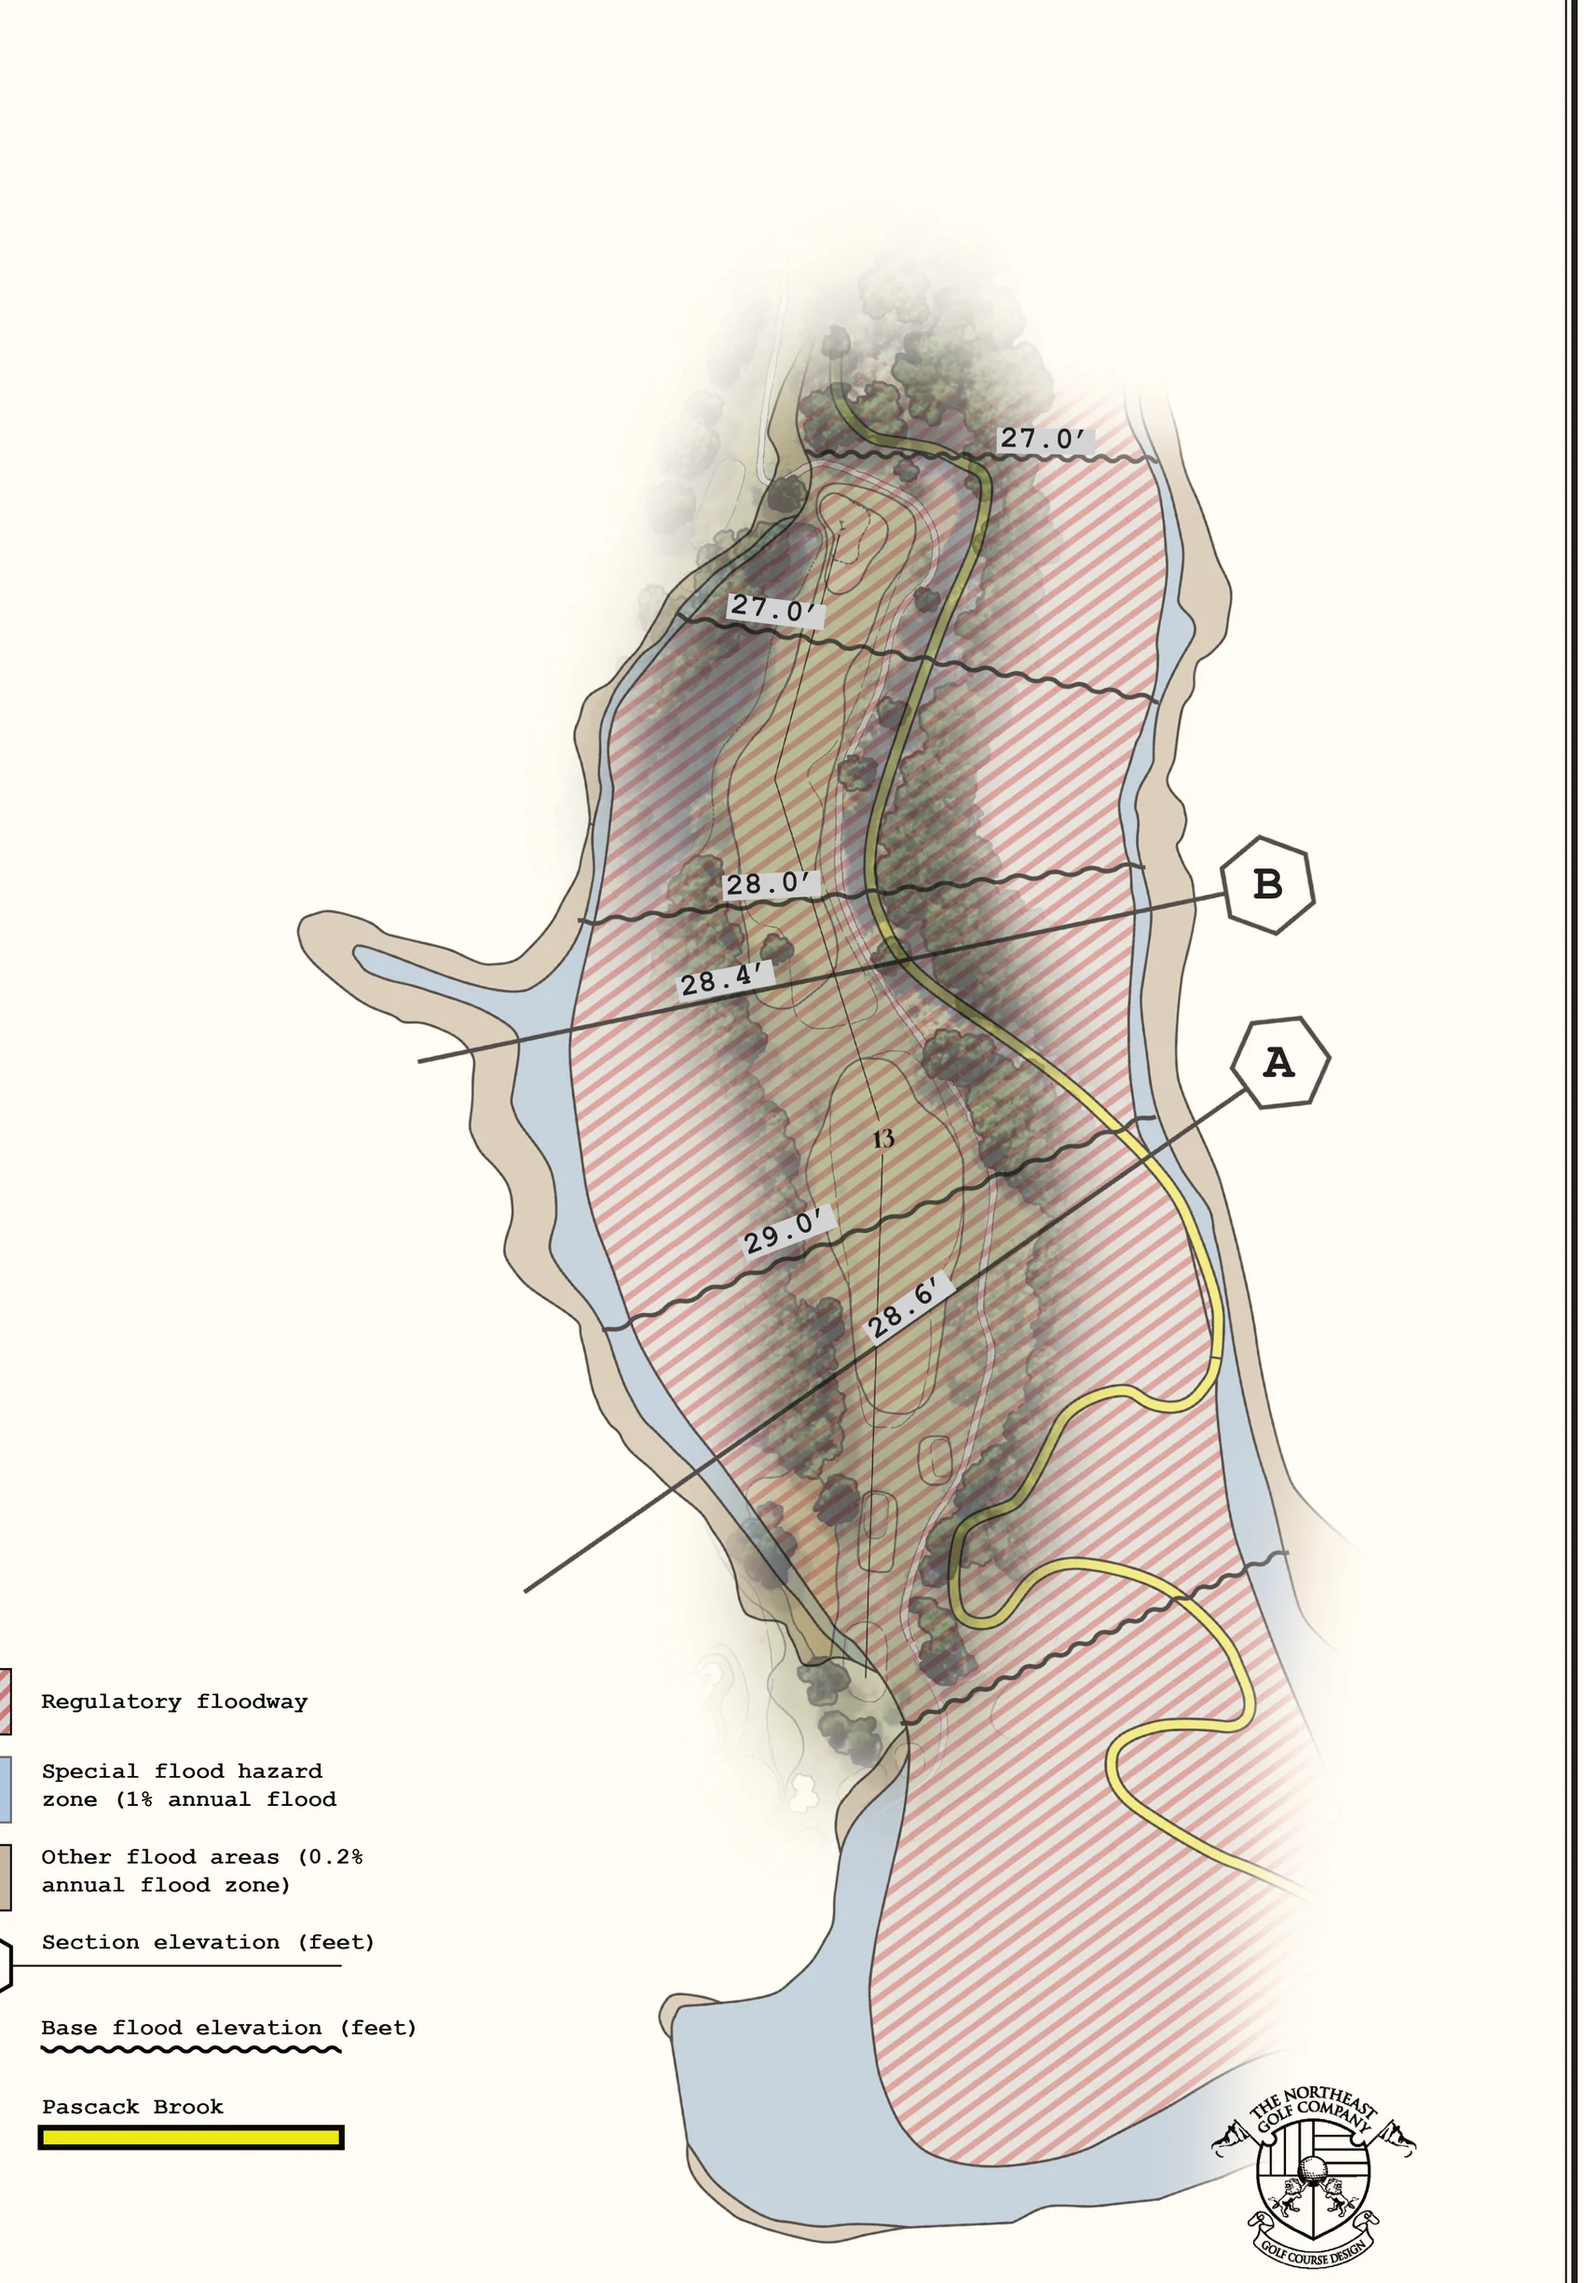
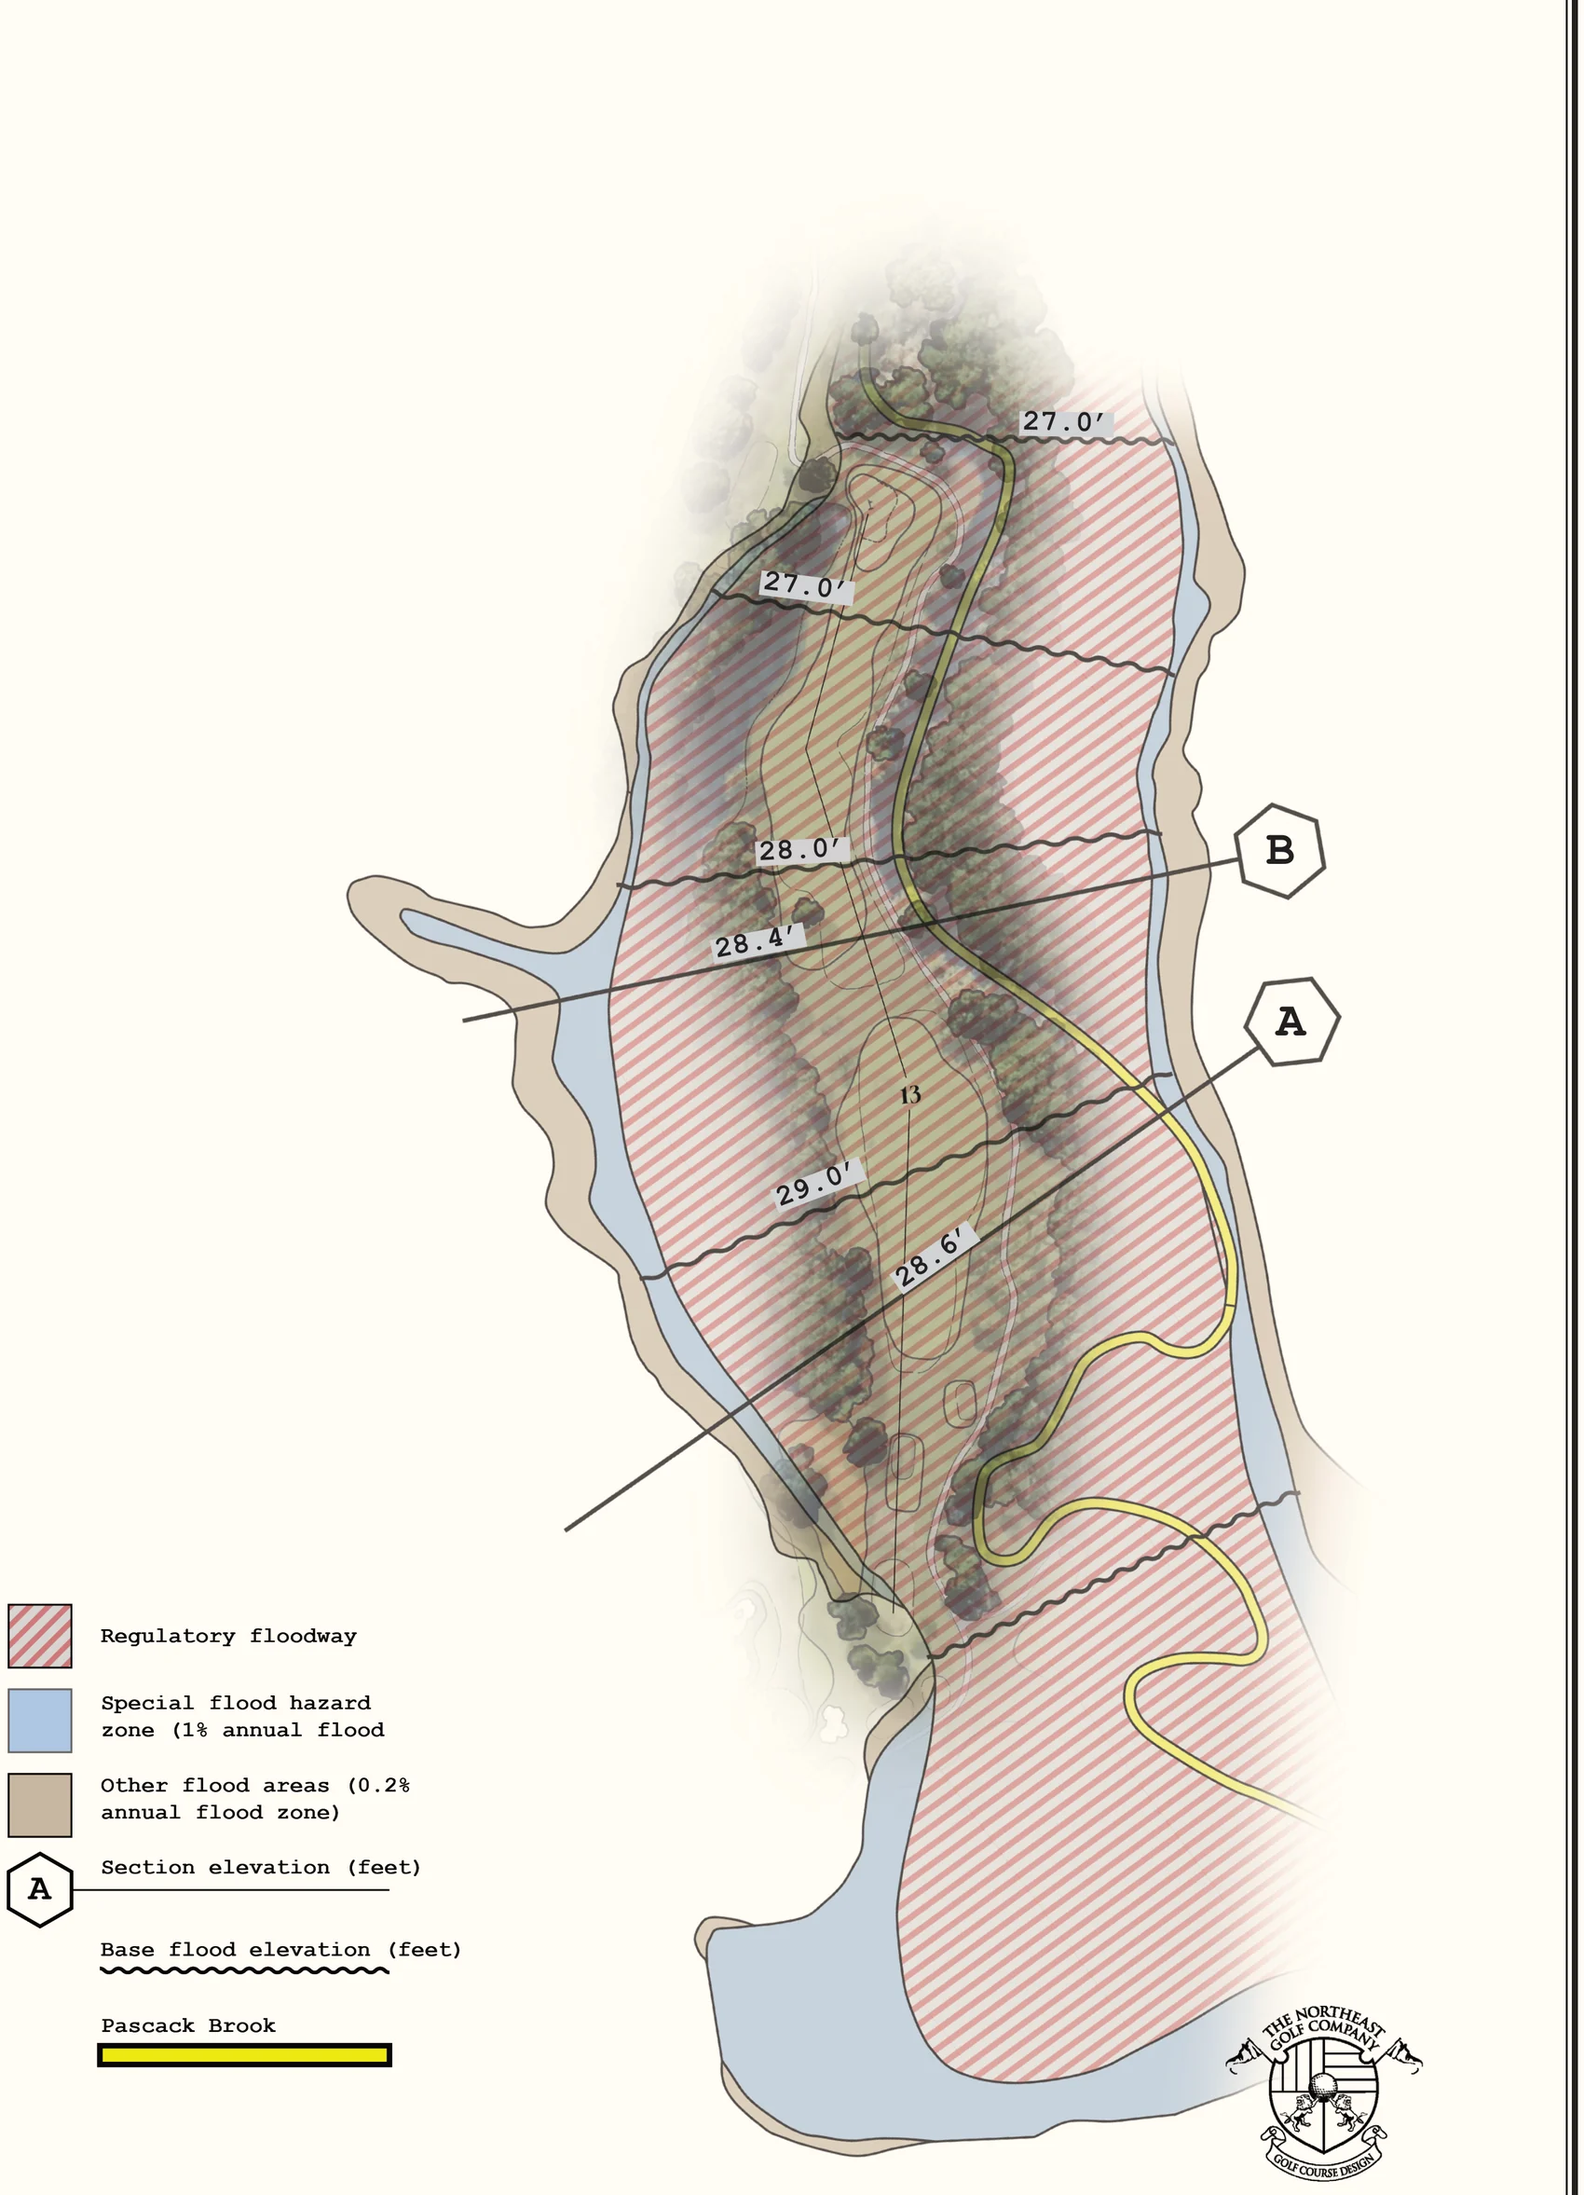
Valley Brook: landscape overall plan, no zoom on holes, mobile fixes
- Recrop overall plan to a tight landscape frame (label dropped, border/
  logo gone, north arrow + Course Yardage kept)
- Pan/zoom now only on the overall plan; holes are plain page-scrollable
  images (better mobile scrolling), zoom UI removed from hole views
- FEMA map crop widened so the full legend is visible
- Program Summary table restacks into cards on mobile

diff --git a/Projects/Valley_Brook/assets/js/main.js b/Projects/Valley_Brook/assets/js/main.js
@@ -164,6 +164,46 @@
     };
   }
 
+  /* ---- Flat (non-zoom) image view for holes / FEMA ---- */
+  function makeFlat(fig) {
+    var img = fig.querySelector("img");
+    var mkl = fig.querySelector(".mklayer");
+    var markerHover = null;
+    mkl.addEventListener("mouseover", function (e) {
+      var m = e.target.closest(".mk");
+      if (m && markerHover) markerHover(m.getAttribute("data-k"), true);
+    });
+    mkl.addEventListener("mouseout", function (e) {
+      var m = e.target.closest(".mk");
+      if (m && markerHover) markerHover(m.getAttribute("data-k"), false);
+    });
+    return {
+      setImage: function (src) {
+        img.style.opacity = 0;
+        var pre = new Image();
+        pre.onload = function () { img.src = src; img.style.opacity = 1; };
+        pre.src = src;
+      },
+      setMarkers: function (list) {
+        mkl.innerHTML = "";
+        list.forEach(function (m) {
+          var d = document.createElement("div");
+          d.className = "mk";
+          d.setAttribute("data-k", m.k);
+          d.style.left = (m.x * 100) + "%";
+          d.style.top = (m.y * 100) + "%";
+          mkl.appendChild(d);
+        });
+      },
+      highlight: function (key, on) {
+        mkl.querySelectorAll('.mk[data-k="' + key + '"]').forEach(function (d) {
+          d.classList.toggle("on", on);
+        });
+      },
+      onMarkerHover: function (fn) { markerHover = fn; }
+    };
+  }
+
   /* ---- Course explorer ---- */
   function initExplorer() {
     var root = document.getElementById("explorer");
@@ -173,14 +213,21 @@
     var MARK = window.HOLE_MARKERS || {};
     var state = { idx: 0, overall: false, fema: false, filter: null };
 
-    var viewer = makeViewer(root.querySelector(".viewer"));
+    var vEl = root.querySelector(".viewer");
+    var zEl = vEl.querySelector(".zoomview");
+    var fEl = vEl.querySelector(".flatview");
+    var zoom = makeViewer(zEl);
+    var flat = makeFlat(fEl);
+    var active = flat;
     var rail = root.querySelector(".hole-rail");
     var info = root.querySelector("#hole-info");
 
-    viewer.onMarkerHover(function (k, on) {
+    function onHover(k, on) {
       var li = info.querySelector('li[data-k="' + k + '"]');
       if (li) li.classList.toggle("hl", on);
-    });
+    }
+    zoom.onMarkerHover(onHover);
+    flat.onMarkerHover(onHover);
 
     var ob = document.createElement("button");
     ob.className = "overall"; ob.textContent = "Overall Plan";
@@ -217,8 +264,9 @@
       root.classList.toggle("ov", state.overall);
 
       if (state.overall) {
-        viewer.setImage(img("overall.webp"));
-        viewer.setMarkers([]);
+        zEl.hidden = false; fEl.hidden = true; active = zoom;
+        zoom.setImage(img("overall.webp"));
+        zoom.setMarkers([]);
         var oh = '<div class="hole-head"><h2>Overall Plan</h2></div>' +
           legend(state.filter) + '<div class="ov-list">';
         holes.forEach(function (h, i) {
@@ -243,17 +291,18 @@
 
       var h = holes[state.idx];
       var fema = h.flood && state.fema;
-      viewer.setImage(img(fema ? "hole13_fema.webp" : "hole" + pad(h.n) + ".webp"));
+      zEl.hidden = true; fEl.hidden = false; active = flat;
+      flat.setImage(img(fema ? "hole13_fema.webp" : "hole" + pad(h.n) + ".webp"));
 
       if (fema) {
-        viewer.setMarkers([]);
+        flat.setMarkers([]);
       } else {
         var ms = [];
         var hm = MARK[h.n] || {};
         Object.keys(hm).forEach(function (k) {
           hm[k].forEach(function (p) { ms.push({ k: k, x: p[0], y: p[1] }); });
         });
-        viewer.setMarkers(ms);
+        flat.setMarkers(ms);
       }
 
       var html = '<div class="hole-head"><h2>Hole ' + h.n + '</h2><span class="par">Par ' + h.par + '</span></div>' +
@@ -330,19 +379,19 @@
 
     info.addEventListener("mouseover", function (e) {
       var li = e.target.closest("li[data-k]");
-      if (li) { li.classList.add("hl"); viewer.highlight(li.getAttribute("data-k"), true); }
+      if (li) { li.classList.add("hl"); active.highlight(li.getAttribute("data-k"), true); }
     });
     info.addEventListener("mouseout", function (e) {
       var li = e.target.closest("li[data-k]");
-      if (li) { li.classList.remove("hl"); viewer.highlight(li.getAttribute("data-k"), false); }
+      if (li) { li.classList.remove("hl"); active.highlight(li.getAttribute("data-k"), false); }
     });
 
     var zin = root.querySelector("[data-zin]"),
         zout = root.querySelector("[data-zout]"),
         zre = root.querySelector("[data-zreset]");
-    if (zin) zin.addEventListener("click", function () { viewer.zoom(1.4); });
-    if (zout) zout.addEventListener("click", function () { viewer.zoom(1 / 1.4); });
-    if (zre) zre.addEventListener("click", function () { viewer.reset(); });
+    if (zin) zin.addEventListener("click", function () { zoom.zoom(1.4); });
+    if (zout) zout.addEventListener("click", function () { zoom.zoom(1 / 1.4); });
+    if (zre) zre.addEventListener("click", function () { zoom.reset(); });
 
     var q = new URLSearchParams(location.search).get("hole");
     if (q && +q >= 1 && +q <= 18) state.idx = +q - 1;

diff --git a/Projects/Valley_Brook/assets/css/style.css b/Projects/Valley_Brook/assets/css/style.css
@@ -301,20 +301,28 @@ figcaption {
 .hole-rail button.active { background: var(--ink); color: var(--paper); border-color: var(--ink); }
 .hole-rail button.overall { width: auto; padding: 0 .9rem; font-variant: small-caps; letter-spacing:.1em; }
 
-.viewer {
+.viewer { position: relative; }
+
+/* Overall plan: interactive pan/zoom box (the only zoomable view) */
+.zoomview {
   position: relative; border: 1px solid var(--rule);
   background: var(--paper); overflow: hidden;
   height: clamp(460px, 80vh, 940px); cursor: grab; touch-action: none;
 }
-.viewer.grabbing { cursor: grabbing; }
-.viewer .stage {
+.zoomview.grabbing { cursor: grabbing; }
+.zoomview .stage {
   position: absolute; top: 0; left: 0;
   transform-origin: 0 0; --inv: 1;
 }
-.viewer .stage img {
+.zoomview .stage img {
   width: 100%; height: 100%; display: block;
   user-select: none; -webkit-user-drag: none; transition: opacity .25s;
 }
+
+/* Hole / FEMA: a plain image the page scrolls past — no pan or zoom */
+.flatview { position: relative; margin: 0; --inv: 1; border: 1px solid var(--rule); background: var(--paper); }
+.flatview > img { display: block; width: 100%; height: auto; transition: opacity .25s; }
+
 .mklayer { position: absolute; inset: 0; pointer-events: none; }
 .mk {
   position: absolute; width: 30px; height: 30px;
@@ -548,6 +556,22 @@ table.scorecard tr:hover td:not(.sum) { background: var(--paper-2); }
   nav.main ul { flex-direction: column; padding: 1rem 1.4rem; gap: .9rem; }
   .nav-toggle { display: block; margin-left: auto; }
   .frame { padding: 20px; outline-offset: 3px; }
+
+  /* Program Summary: restack the 2-col table into readable cards */
+  .prog, .prog tbody, .prog tr, .prog td { display: block; width: 100%; }
+  .prog thead { display: none; }
+  .prog { margin-top: 1rem; }
+  .prog tr {
+    border: 1px solid var(--rule-soft); margin-bottom: .9rem;
+    padding: .2rem .2rem .7rem;
+  }
+  .prog tr:hover td { background: none; }
+  .prog td { border-bottom: 0; padding: .3rem 1rem; }
+  .prog td.cat {
+    white-space: normal; font-size: 1.12rem; color: var(--gold-deep);
+    padding: .8rem 1rem .5rem; margin-bottom: .35rem;
+    border-bottom: 1px dotted var(--rule-soft);
+  }
 }
 @media print {
   .topbar, .scroll-cue, .viewer-tools, .filters, .hole-rail, .nav-toggle { display: none; }

diff --git a/Projects/Valley_Brook/course.html b/Projects/Valley_Brook/course.html
@@ -48,14 +48,20 @@
 
         <div class="explorer">
           <div>
-            <div class="viewer" aria-label="Hole drawing — drag to pan, scroll or double-click to zoom">
-              <span class="viewer-hint">Drag &middot; Scroll &middot; Double-click to zoom</span>
-              <img src="assets/img/holes/overall.webp" alt="Course drawing">
-              <div class="viewer-tools">
-                <button data-zout aria-label="Zoom out">&minus;</button>
-                <button data-zreset aria-label="Reset view">&#9633;</button>
-                <button data-zin aria-label="Zoom in">&plus;</button>
+            <div class="viewer">
+              <div class="zoomview" hidden aria-label="Overall plan — drag to pan, scroll or double-click to zoom">
+                <span class="viewer-hint">Drag &middot; Scroll &middot; Double-click to zoom</span>
+                <img alt="Overall course plan">
+                <div class="viewer-tools">
+                  <button data-zout aria-label="Zoom out">&minus;</button>
+                  <button data-zreset aria-label="Reset view">&#9633;</button>
+                  <button data-zin aria-label="Zoom in">&plus;</button>
+                </div>
               </div>
+              <figure class="flatview" hidden>
+                <img alt="Hole plan">
+                <div class="mklayer"></div>
+              </figure>
             </div>
           </div>
           <div id="hole-info"></div>
